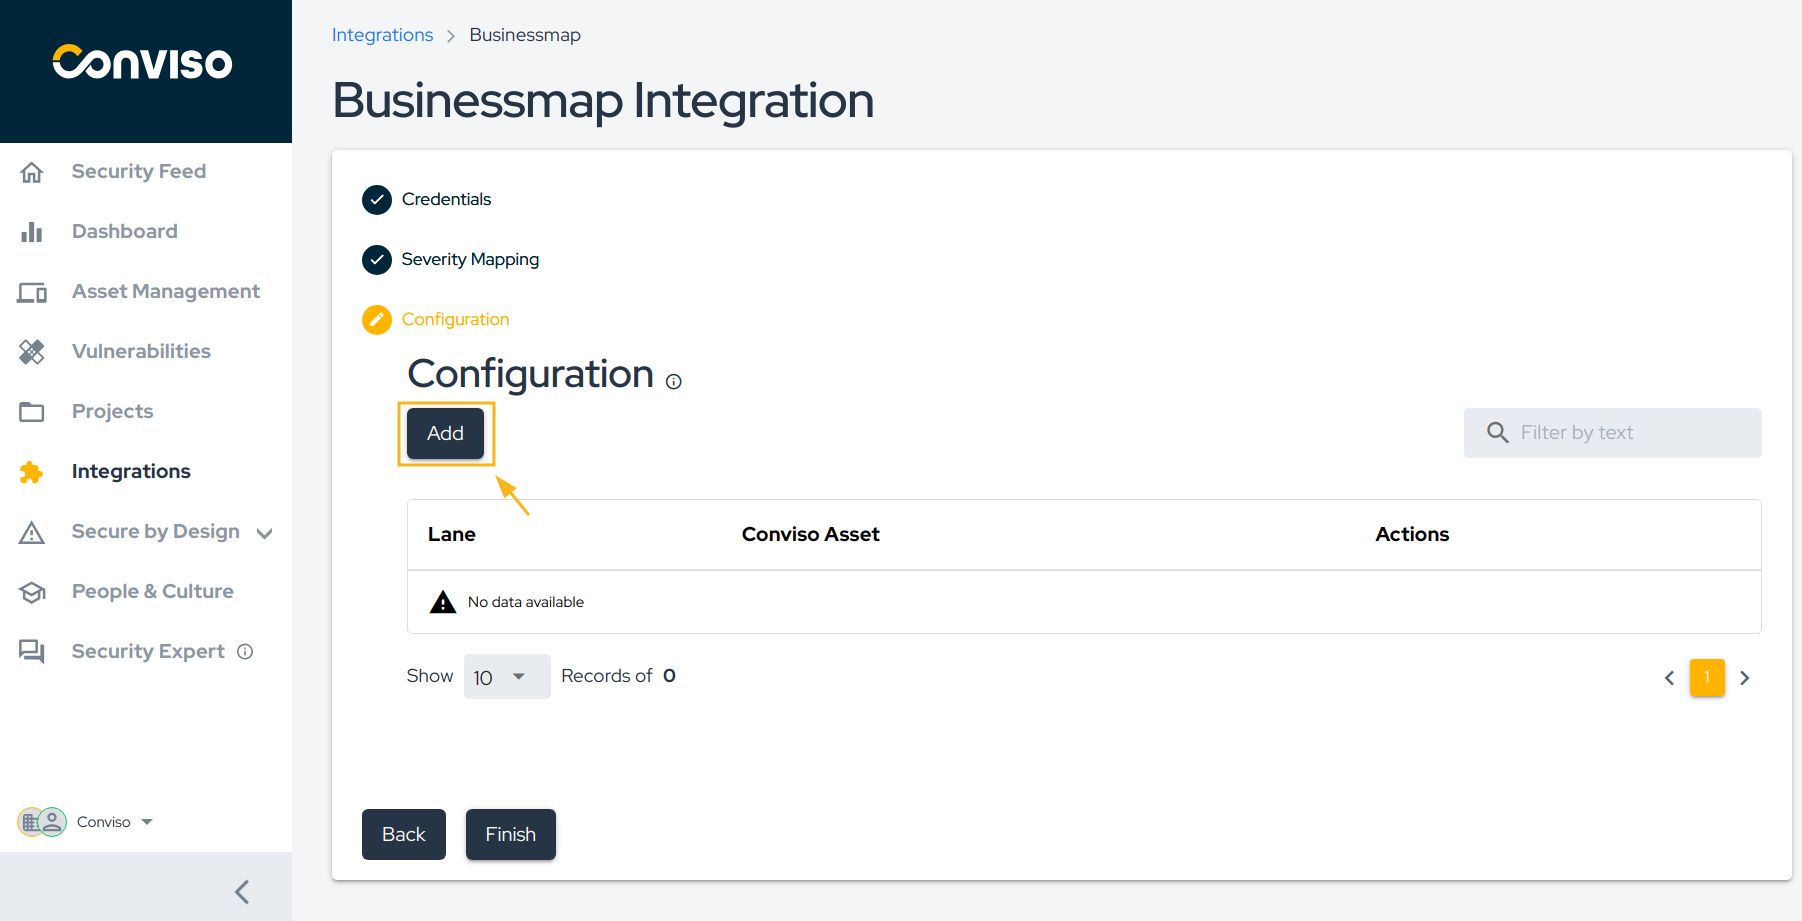
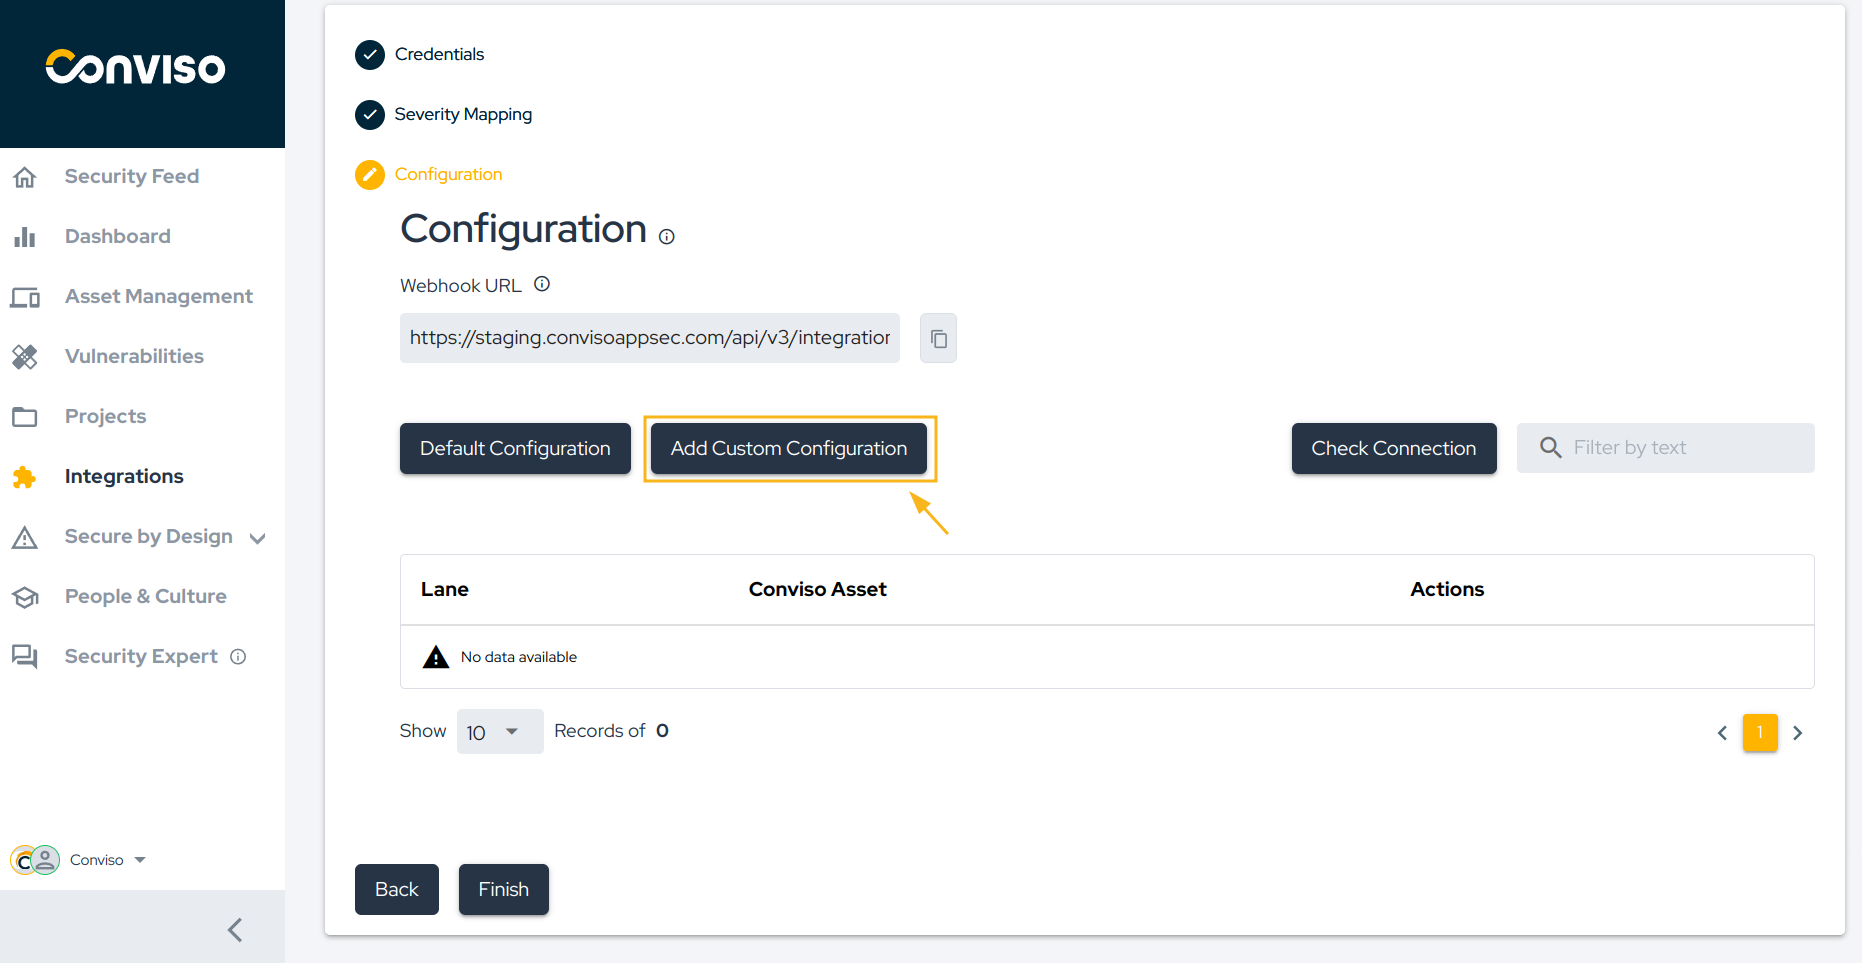
Improve docs with up-to-date images and new screenshots for other tutorial parts

diff --git a/docs/integrations/businessmap.md b/docs/integrations/businessmap.md
@@ -71,35 +71,40 @@ Follow the instructions below to complete the integration setup.
 
 [![img](../../static/img/businessmap-img6.png  'A screenshot of a Conviso Platform screen for integration with BusinessMap.')](https://cta-service-cms2.hubspot.com/web-interactives/public/v1/track/redirect?encryptedPayload=AVxigLKtcWzoFbzpyImNNQsXC9S54LjJuklwM39zNd7hvSoR%2FVTX%2FXjNdqdcIIDaZwGiNwYii5hXwRR06puch8xINMyL3EXxTMuSG8Le9if9juV3u%2F%2BX%2FCKsCZN1tLpW39gGnNpiLedq%2BrrfmYxgh8G%2BTcRBEWaKasQ%3D&webInteractiveContentId=125788977029&portalId=5613826)
 
+**Step 7 -** Then, in **Configuration** page, click on the **Check connection (1)** button to verify if the authentication is **working properly (2)**:
 
-**Step 7 -** Then, in **Configuration**, click on the **Add** button to start pairing Conviso Platform Assets with **BusinessMap Boards/Lanes:**
+[![img](../../static/img/businessmap-img14.png  'A screenshot of a Conviso Platform screen for integration with BusinessMap.')](https://cta-service-cms2.hubspot.com/web-interactives/public/v1/track/redirect?encryptedPayload=AVxigLKtcWzoFbzpyImNNQsXC9S54LjJuklwM39zNd7hvSoR%2FVTX%2FXjNdqdcIIDaZwGiNwYii5hXwRR06puch8xINMyL3EXxTMuSG8Le9if9juV3u%2F%2BX%2FCKsCZN1tLpW39gGnNpiLedq%2BrrfmYxgh8G%2BTcRBEWaKasQ%3D&webInteractiveContentId=125788977029&portalId=5613826)
+
+**Step 8 -** In order to add a new integration between a Conviso Asset and a BusinessMap Board, click on the **Add Custom Configuration** button to start pairing Conviso Platform Assets with specific **BusinessMap Boards:**
 
 [![img](../../static/img/businessmap-img7.png  'A screenshot of a Conviso Platform screen for integration with BusinessMap.')](https://cta-service-cms2.hubspot.com/web-interactives/public/v1/track/redirect?encryptedPayload=AVxigLKtcWzoFbzpyImNNQsXC9S54LjJuklwM39zNd7hvSoR%2FVTX%2FXjNdqdcIIDaZwGiNwYii5hXwRR06puch8xINMyL3EXxTMuSG8Le9if9juV3u%2F%2BX%2FCKsCZN1tLpW39gGnNpiLedq%2BrrfmYxgh8G%2BTcRBEWaKasQ%3D&webInteractiveContentId=125788977029&portalId=5613826)
 
 
-**Step 8 -** Select the **Conviso Platform Asset** you want to associate with your **BusinessMap Workspace**, **BusinessMap Board**, **BusinessMap Workflow** and finally **BusinessMap Lane**:
+**Step 9 -** Select the **Conviso Platform Asset** you want to associate with your **BusinessMap Workspace**, **BusinessMap Board**, **BusinessMap Workflow** and finally **BusinessMap Lane**:
 
 [![img](../../static/img/businessmap-img8.png  'A screenshot of a Conviso Platform screen for integration with BusinessMap.')](https://cta-service-cms2.hubspot.com/web-interactives/public/v1/track/redirect?encryptedPayload=AVxigLKtcWzoFbzpyImNNQsXC9S54LjJuklwM39zNd7hvSoR%2FVTX%2FXjNdqdcIIDaZwGiNwYii5hXwRR06puch8xINMyL3EXxTMuSG8Le9if9juV3u%2F%2BX%2FCKsCZN1tLpW39gGnNpiLedq%2BrrfmYxgh8G%2BTcRBEWaKasQ%3D&webInteractiveContentId=125788977029&portalId=5613826)
 
-**Step 9 -** After mapping all Conviso Platform statuses to BusinessMap statuses, click on the** Save button**:
+**Step 10 -** After mapping all Conviso Platform statuses to BusinessMap statuses, click on the** Save button**:
 
 [![img](../../static/img/businessmap-img9.png  'A screenshot of a Conviso Platform screen for integration with BusinessMap.')](https://cta-service-cms2.hubspot.com/web-interactives/public/v1/track/redirect?encryptedPayload=AVxigLKtcWzoFbzpyImNNQsXC9S54LjJuklwM39zNd7hvSoR%2FVTX%2FXjNdqdcIIDaZwGiNwYii5hXwRR06puch8xINMyL3EXxTMuSG8Le9if9juV3u%2F%2BX%2FCKsCZN1tLpW39gGnNpiLedq%2BrrfmYxgh8G%2BTcRBEWaKasQ%3D&webInteractiveContentId=125788977029&portalId=5613826)
 
-**Step 10** - After saving your integration configuration, you may want to review, modify or delete it from Conviso Platform. To do so, at your integration configuration panel, choose the **Edit** icon to review or change it; if you want to completely delete it, use the **Trash** icon at its right:
+**Step 11** - After saving your integration configuration, you may want to review, modify or delete it from Conviso Platform. To do so, at your integration configuration panel, choose the **Edit** icon to review or change it; if you want to completely delete it, use the **Trash** icon at its right:
 
 [![img](../../static/img/businessmap-img10.png  'A screenshot of a Conviso Platform screen for integration with BusinessMap.')](https://cta-service-cms2.hubspot.com/web-interactives/public/v1/track/redirect?encryptedPayload=AVxigLKtcWzoFbzpyImNNQsXC9S54LjJuklwM39zNd7hvSoR%2FVTX%2FXjNdqdcIIDaZwGiNwYii5hXwRR06puch8xINMyL3EXxTMuSG8Le9if9juV3u%2F%2BX%2FCKsCZN1tLpW39gGnNpiLedq%2BrrfmYxgh8G%2BTcRBEWaKasQ%3D&webInteractiveContentId=125788977029&portalId=5613826)
 
-**Step 11** - After that, make sure you click under the "Finish" button:
+**Step 12** - After that, make sure you click under the "Finish" button:
 
 [![img](../../static/img/businessmap-img11.png  'A clipping of a BusinessMap platform screen in the backlog.')](https://cta-service-cms2.hubspot.com/web-interactives/public/v1/track/redirect?encryptedPayload=AVxigLKtcWzoFbzpyImNNQsXC9S54LjJuklwM39zNd7hvSoR%2FVTX%2FXjNdqdcIIDaZwGiNwYii5hXwRR06puch8xINMyL3EXxTMuSG8Le9if9juV3u%2F%2BX%2FCKsCZN1tLpW39gGnNpiLedq%2BrrfmYxgh8G%2BTcRBEWaKasQ%3D&webInteractiveContentId=125788977029&portalId=5613826)
 
 ## Synchronize vulnerability statuses between Conviso Platform and BusinessMap using Webhooks
 
-This feature facilitates seamless bidirectional synchronization of vulnerability statuses between the Conviso Platform and BusinessMap.
+This feature facilitates seamless bidirectional synchronization of vulnerability statuses between the Conviso Platform and BusinessMap specific board.
 
 **Step 1: Copy Webhook URL**
 
-Access the configuration page for the BusinessMap integration from the Conviso Platform. Copy the webhook URL provided by the Conviso Platform.
+Access the configuration page for the BusinessMap integration from the Conviso Platform. Copy the webhook URL provided by the Conviso Platform clicking on the **"Copy" button (1)**, as shown in the image below:
+
+[![img](../../static/img/businessmap-img15.png  'A clipping of a BusinessMap platform screen in the backlog.')](https://cta-service-cms2.hubspot.com/web-interactives/public/v1/track/redirect?encryptedPayload=AVxigLKtcWzoFbzpyImNNQsXC9S54LjJuklwM39zNd7hvSoR%2FVTX%2FXjNdqdcIIDaZwGiNwYii5hXwRR06puch8xINMyL3EXxTMuSG8Le9if9juV3u%2F%2BX%2FCKsCZN1tLpW39gGnNpiLedq%2BrrfmYxgh8G%2BTcRBEWaKasQ%3D&webInteractiveContentId=125788977029&portalId=5613826)
 
 **Step 2: Configure the Webhook in BusinessMap**
 
